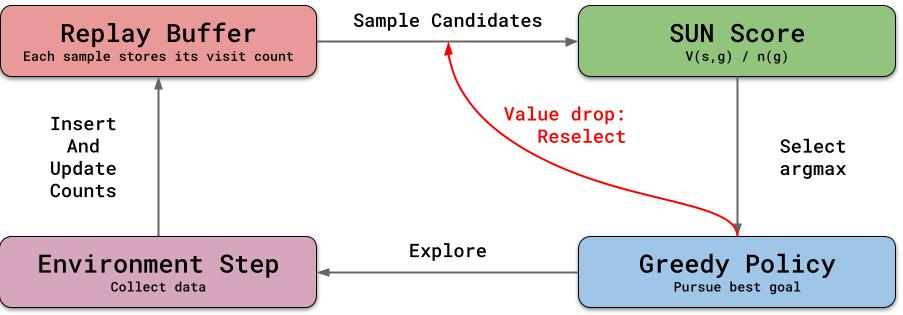
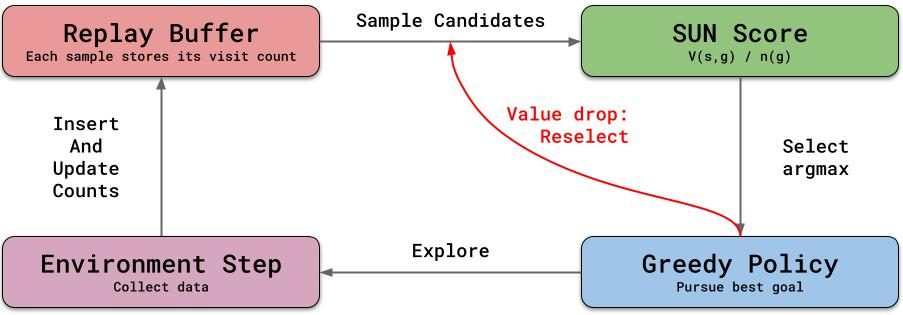
sun fixes + home button

diff --git a/assets/research.html b/assets/research.html
@@ -77,6 +77,12 @@ summary {
     cursor: pointer;
     margin: 15px 0;
 }
+a.home {
+    display: inline-block;
+    padding: 4px 14px;
+    border: 1px solid #1772d0;
+    border-radius: 4px;
+}
 
   </style>
 
@@ -157,17 +163,16 @@ html {
   <table width=840 align="center" >
   <tr><td colspan="2">
 
+  <p><a class="home" href="https://sparisi.github.io/" target="_self">Home</a></p>
+
   <details>
   <summary><b><font size=+1> Exploration via Goal-Conditioned RL </font></b></summary>
   <img src="sun_goals.svg" width="95%" style="border-radius:0px" >
   <br>
 
-  Instead of chasing intrinsic rewards that keep shifting as the agent learns, the agent can explore by repeatedly
-  picking a goal and trying to reach it with a goal-conditioned policy.
-  Learning to reach goals is a stationary, self-supervised objective, so what really drives exploration is <i>which</i> goal the agent picks.
-  Density-based methods pick rare goals, but these may be unreachable.
-  Methods based on distances or success probabilities pick reachable goals, but neglect rare ones.
-  In the example above, novelty alone sends the agent to a room it cannot enter, and reachability alone keeps it where it already is.
+  Exploration in RL is a fundamental challenge. Recent GCRL strategies (which select goals to encourage broader state coverage)
+  have shown promising results, but none scores a goal by novelty and reachability jointly: the two signals are traded off by hand,
+  applied in sequence, or one is neglected outright.
 
   <p>
   <center><i>
@@ -180,14 +185,14 @@ html {
   <p>
   <img src="sun_loop.jpg" width="48%" style="border-radius:0px; display: inline; float: left; margin: 0 16 0 0" >
   <a href="https://arxiv.org/abs/2609.08642">In our SUN paper</a>, we proposed <i>SUccessor-to-Novelty</i>, an indicator that scores
-  each candidate goal by the product of its reachability, estimated with a successor value function, and its novelty,
-  estimated with a pseudocount.
-  The product is the value of a count-bonus reward, bounds the probability of hitting the goal within a short horizon,
-  and is zero for goals that cannot be reached, no matter how rare they are.
-  The agent keeps its goal as long as the value of reaching it does not drop, and selects a new one as soon as it does.
-  Novelty comes from a lightweight pseudocount stored in the replay buffer, so candidates can be scored at every step at almost no cost.
-  SUN works with any off-policy algorithm, and consistently explores more broadly and more uniformly than state-of-the-art methods
-  in environments with unreachable states, irreversible transitions, mazes, and unbounded spaces.
+  each candidate goal by the product of its reachability (estimated with a successor value function) and its novelty
+  (estimated with a lightweight pseudocount). This results in a reachability-aware goal-selection framework that explicitly integrates
+  these two aspects, and that can be seamlessly incorporated into any off-policy RL algorithm. <br>
+  To ensure robustness against stochasticity and approximation errors, we further
+  employ an adaptive goal-selection strategy that reselects the exploration goal
+  if the estimated goal-value decreases.
+  Benchmarked on a large variety of environments with unreachable states, irreversible transitions, mazes, and unbounded spaces,
+  SUN achieves state-of-the-art performance.
   </p>
 
   <br clear="all" />
@@ -197,7 +202,7 @@ html {
   <p>
   <b> <a href="https://arxiv.org/abs/2609.08642">SUN: Reaching for Novelty in Reinforcement Learning</a> </b> <br>
   Wenyan Yang, Arsenii Mustafin, Dominik Baumann, Joni Pajarinen, <font color=#f10000>Simone Parisi</font> <br>
-  arXiv, 2026
+  European Workshop on Reinforcement Learning (EWRL), 2026
   </p>
 
   </details>

diff --git a/index.html b/index.html
@@ -227,6 +227,12 @@ html {
       <p><b><font size=+1> Selected Papers </font></b></p>
 
       <p>
+      <b> <a href="https://arxiv.org/abs/2406.13909">SUN: Reaching for Novelty in Reinforcement Learning</a> </b> <br>
+      Wenyan Yang, Arsenii Mustafin, Dominik Baumann, Joni Pajarinen, <font color=#f10000>Simone Parisi</font> <br>
+      European Workshop on Reinforcement Learning (EWRL), 2026
+      </p>
+
+      <p>
       <b> <a href="https://arxiv.org/abs/2406.13909">Beyond Optimism: Exploration With Partially Observable Rewards</a> </b> <br>
       <font color=#f10000>Simone Parisi</font>, Alireza Kazemipour, Michael Bowling <br>
       Neural Information Processing Systems (NeurIPS), 2024
